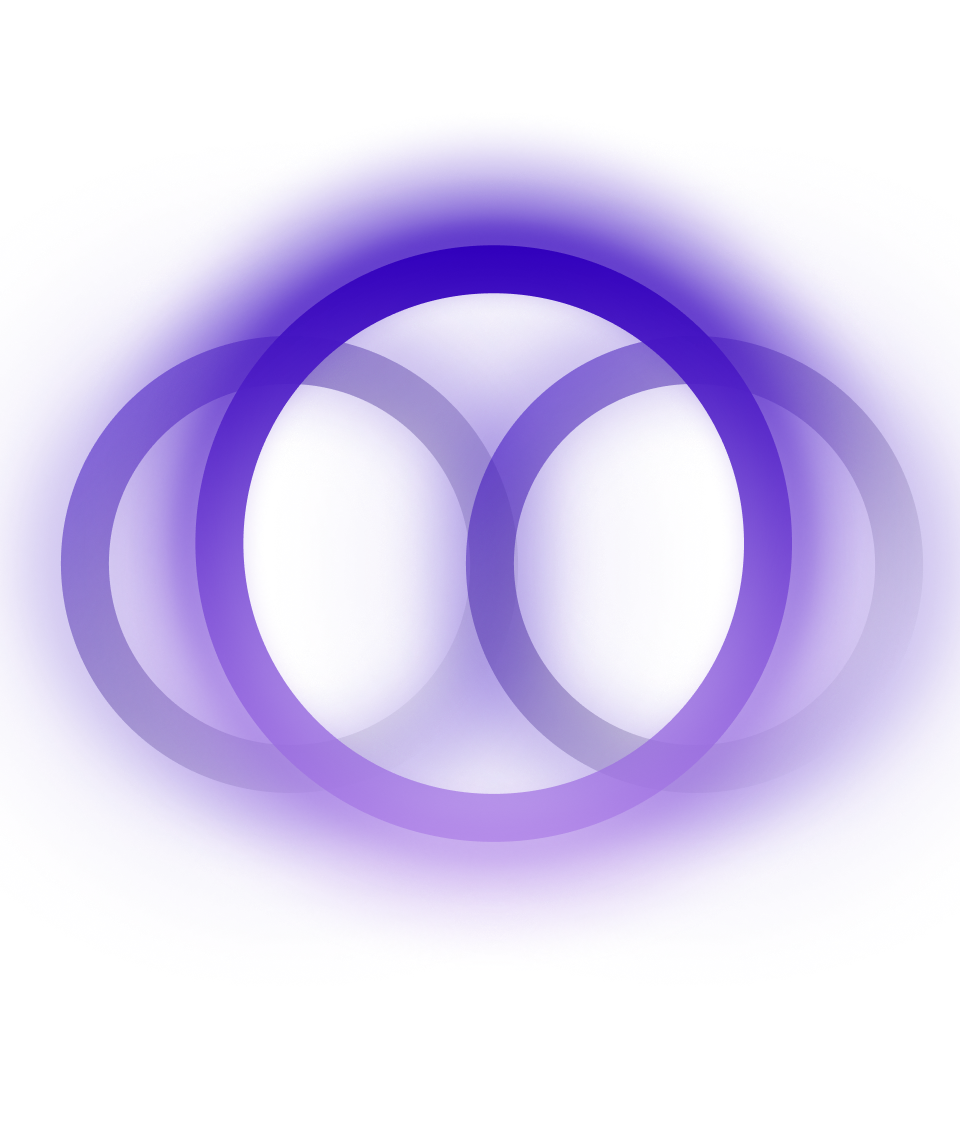
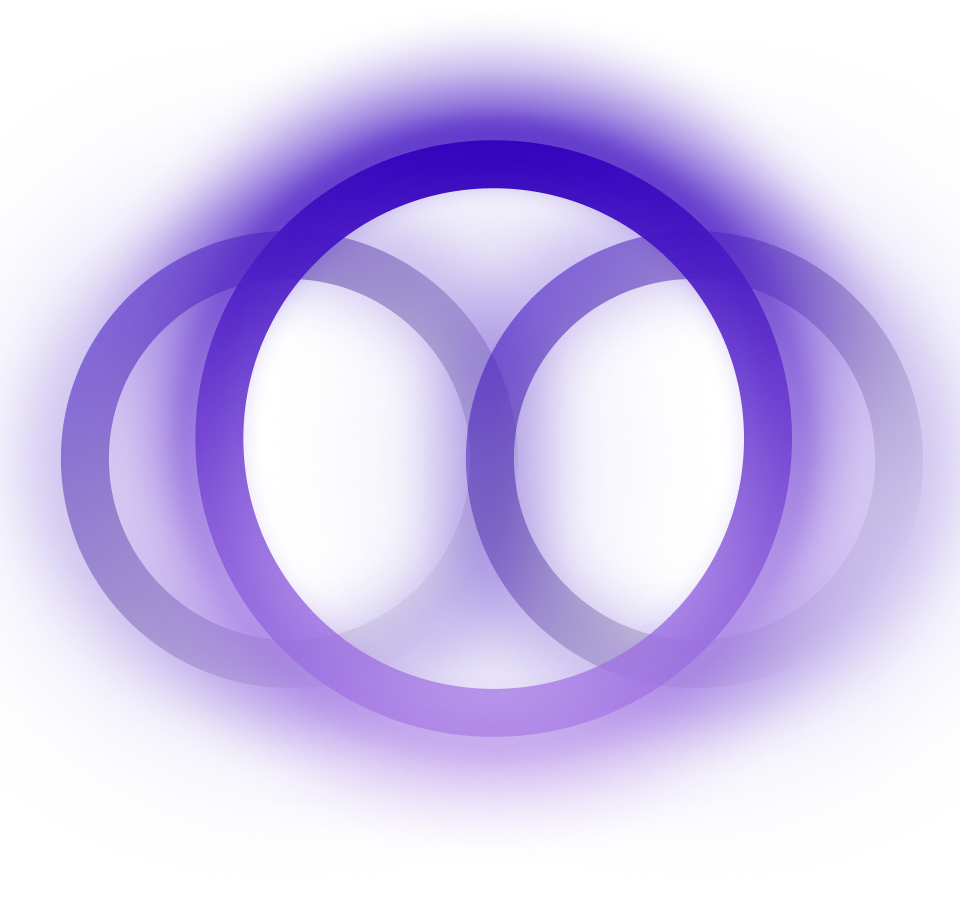
Finished stylization of the call-for-action section in the index page

diff --git a/css/call-for-action.css b/css/call-for-action.css
@@ -48,6 +48,7 @@
 	    background-repeat: no-repeat;
 	    background-size: 390px auto;
 	    content: "";
+	    z-index: -20;
 	}
 
 	.call-for-action__link {
@@ -97,13 +98,13 @@
 		width: 390px;
 	}
 
-
-
 	.call-for-action .inner-container_large::before {
-		top: -312px;
+		top: -297px;
+	    left: -27%;
 	    height: 880px;
+	    width: 150%;
 	    background-image: url(../img/call_for_action_circle_2.png);
-	    background-size: 710px auto;
+	    background-size: 890px auto;
 	}
 }
 
@@ -111,5 +112,12 @@
 
 
 @media (min-width: 992px) {
-
+	.call-for-action .inner-container_large::before {
+		top: -312px;
+	    left: -25.8%;
+	    height: 880px;
+	    width: 150%;
+	    background-image: url(../img/call_for_action_circle_3.png);
+	    background-size: 1470px auto;
+	}
 }
